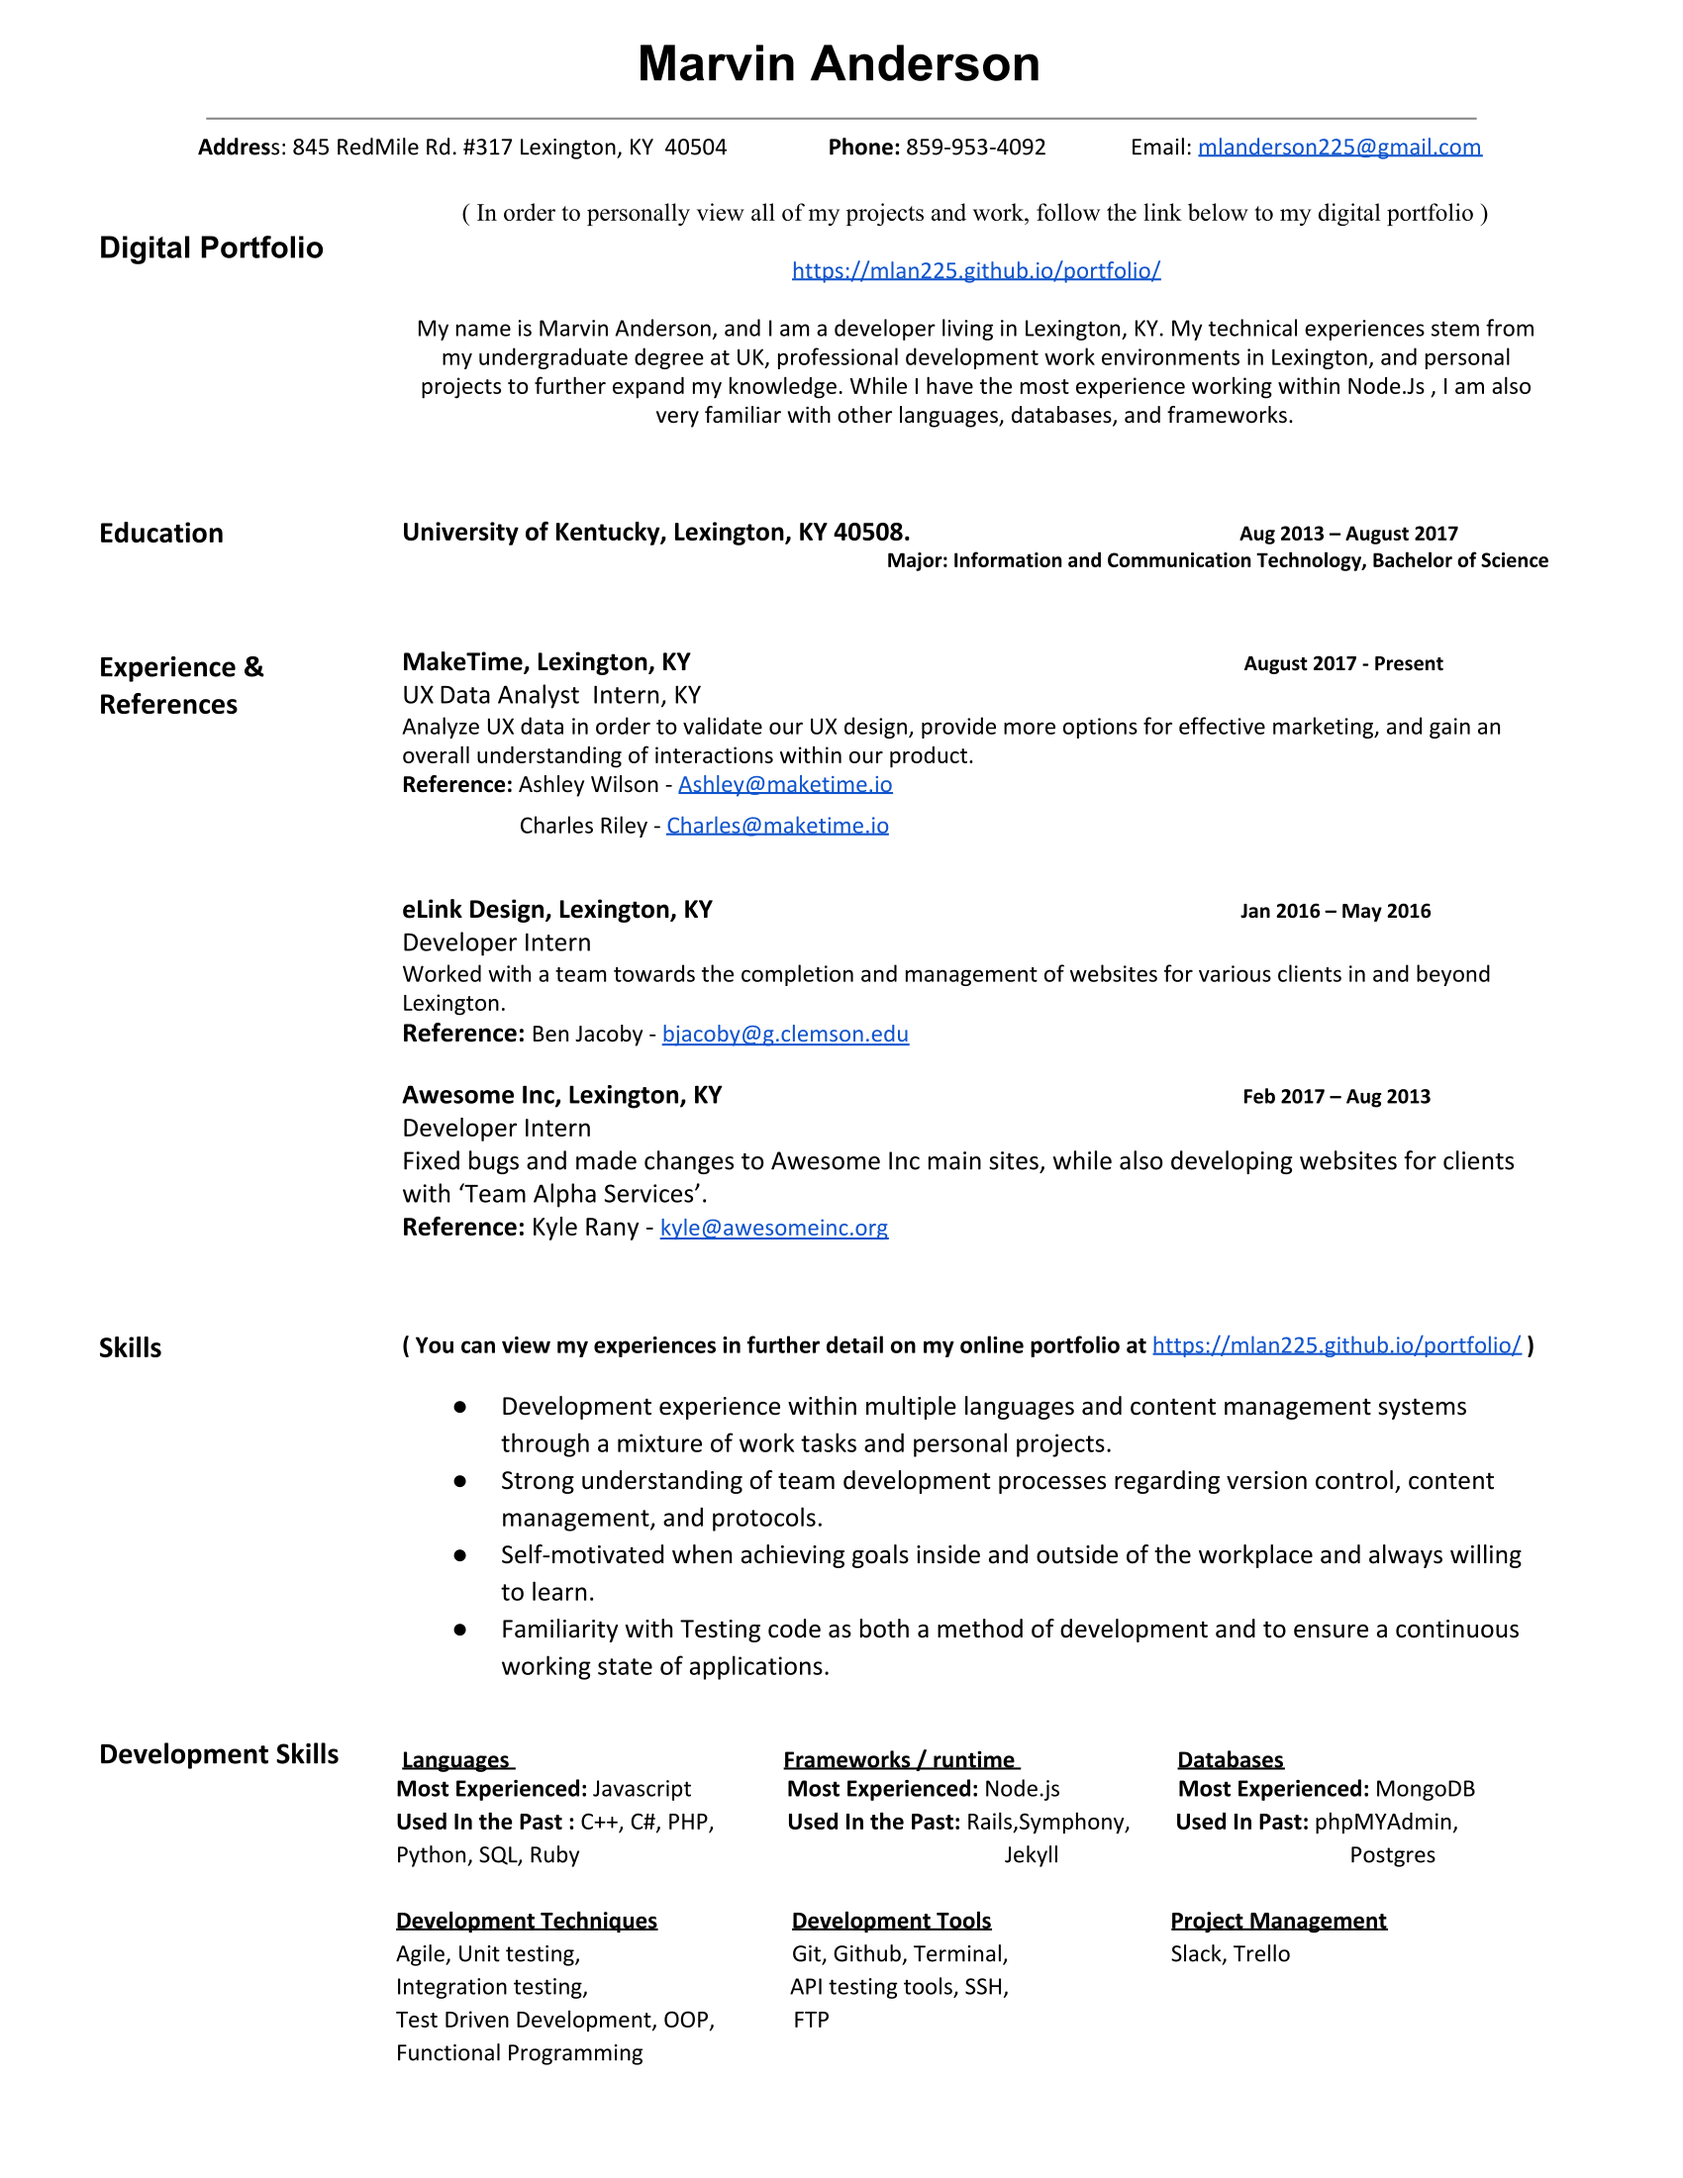
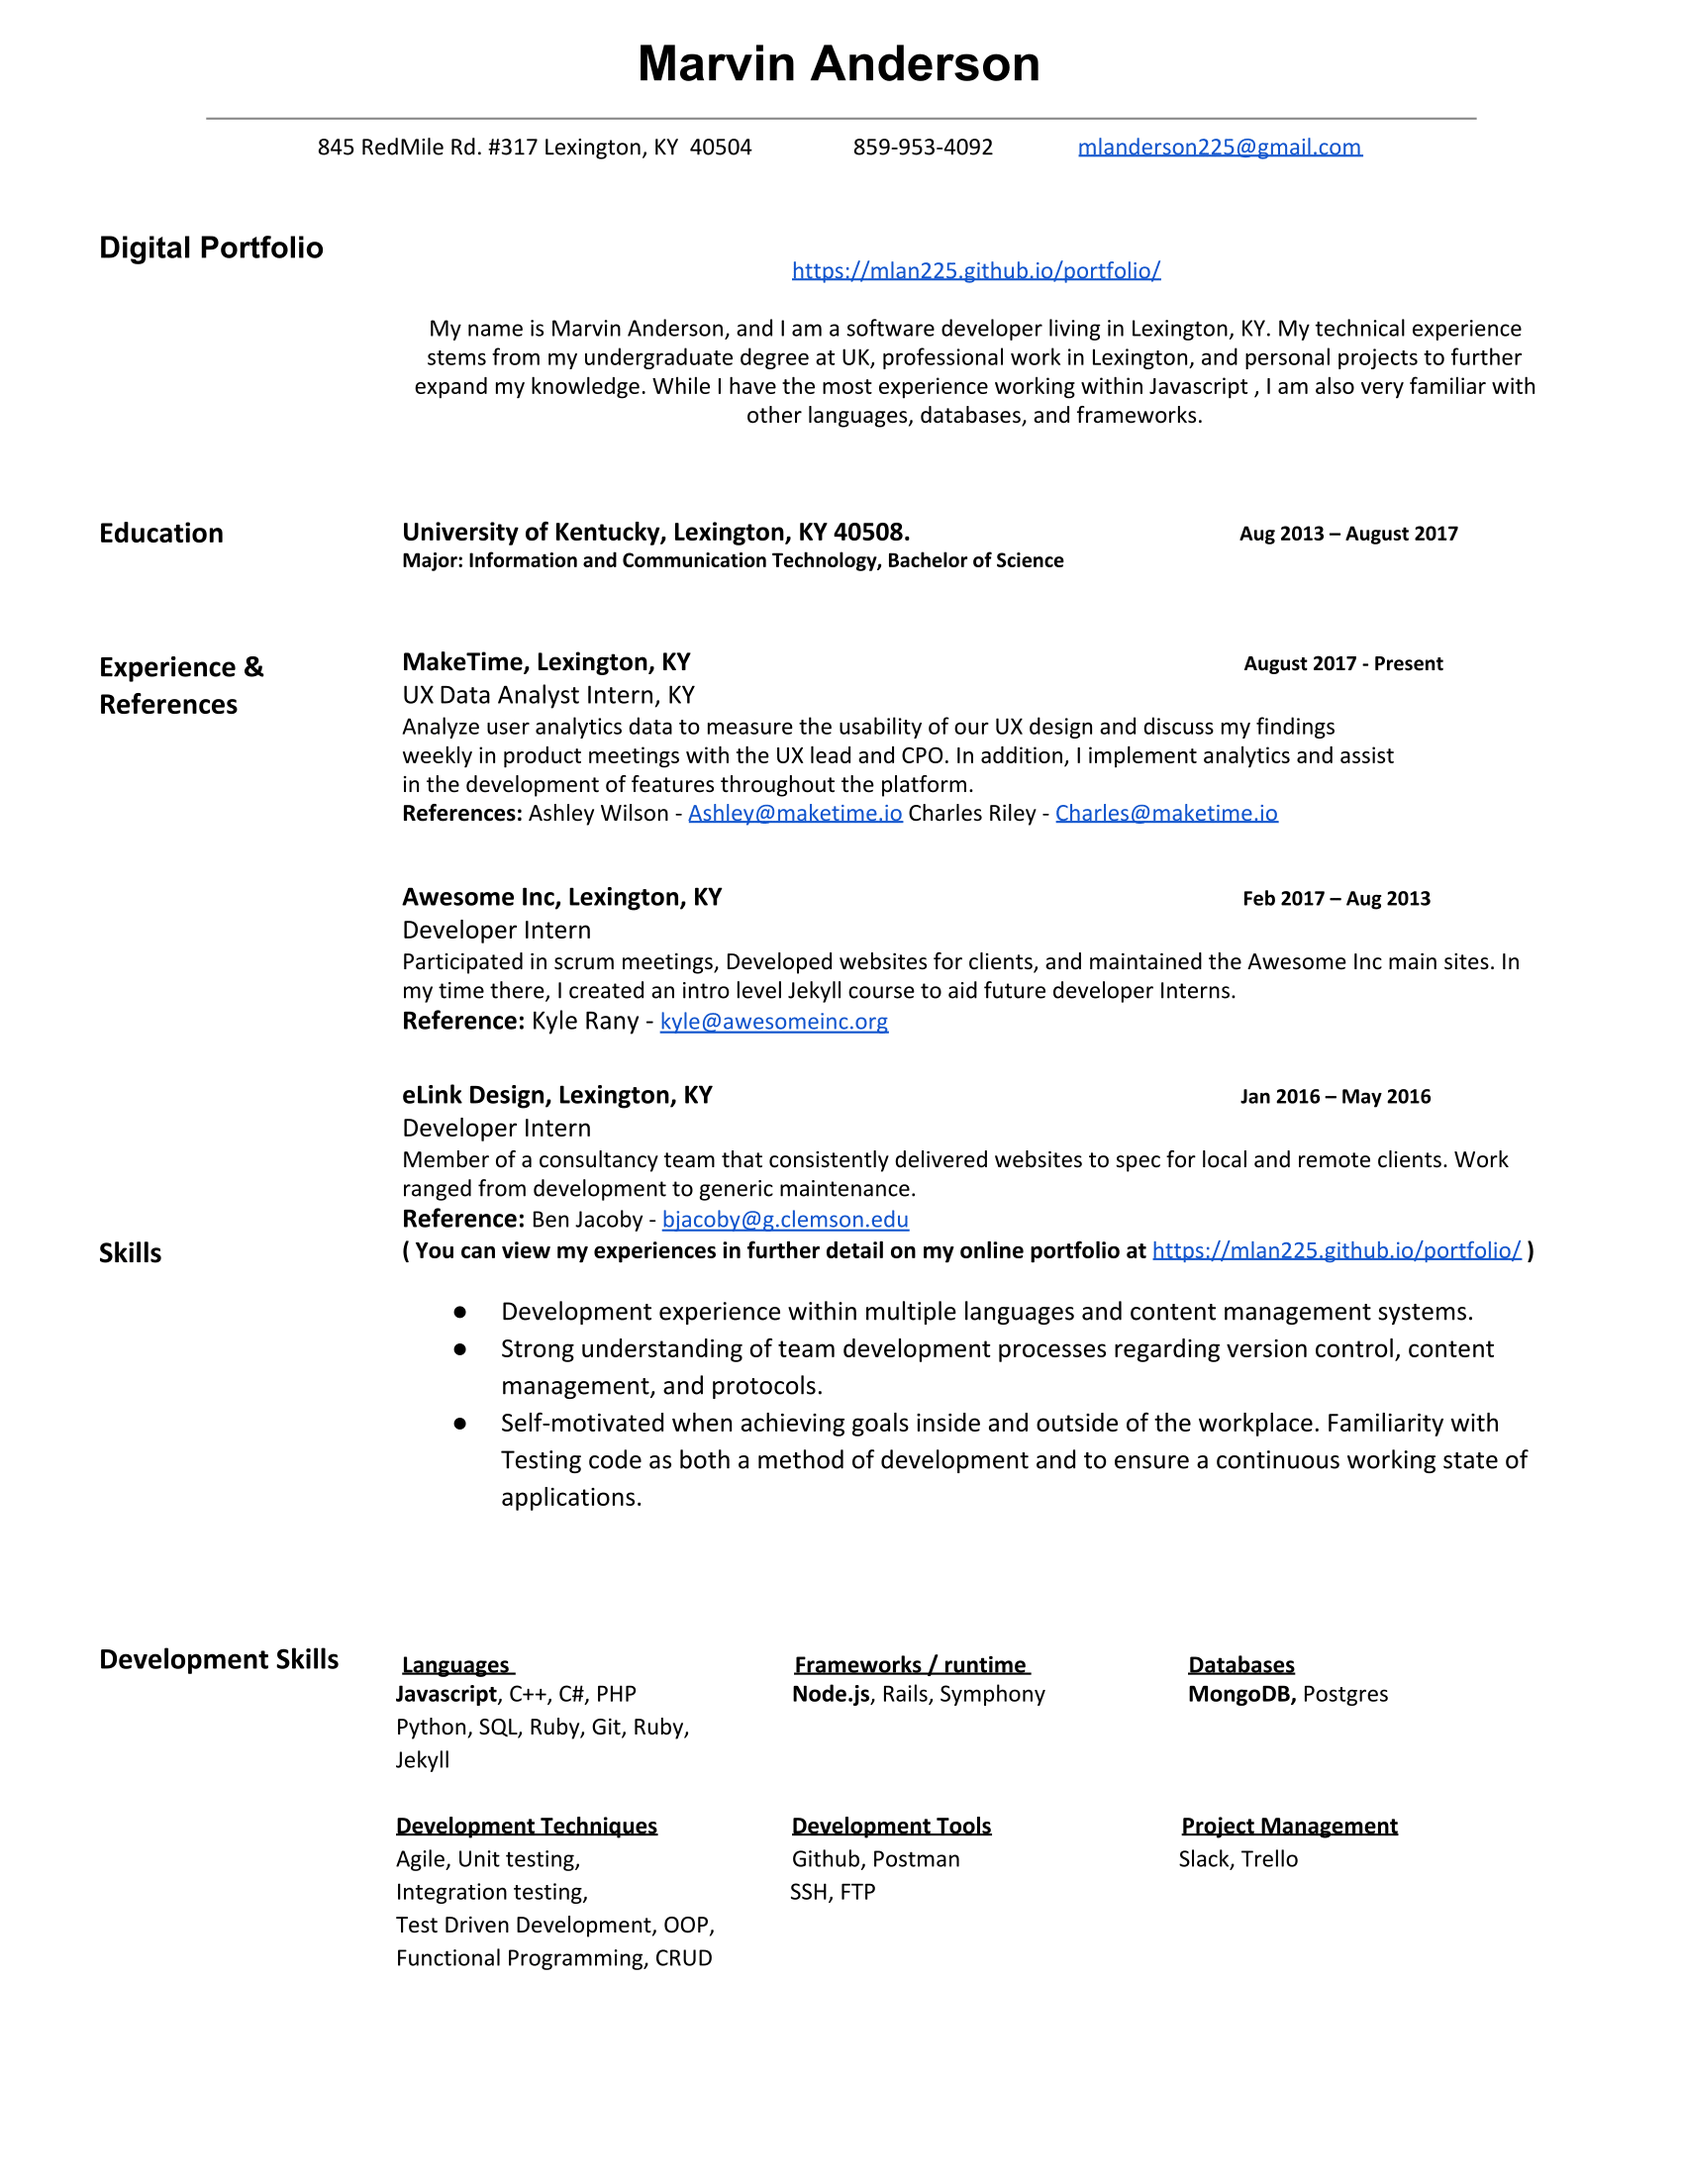
Added changes from resume review, updated resume img

diff --git a/skills.html b/skills.html
@@ -55,11 +55,11 @@ title: Skills
       <div class="modal-body">
 	    <div class="row">
 			<ul id="experience">
-				<li><h6>Development experience within multiple languages and content management systems through a mixture of work tasks and personal projects.</h6></li>
+				<li><h6>Development experience within multiple languages and content management systems.</h6></li>
+				</h6></li>
 				<li><h6>Strong understanding of team development processes regarding version control, content management, and protocols.
 				</h6></li>
-				<li><h6>Self-motivated when achieving goals inside and outside of the workplace and always willing to learn.</h6></li>
-				<li><h6>Familiarity with Testing code as both a method of development and to ensure a continuous working state of applications.
+				<li><h6>Self-motivated when achieving goals inside and outside of the workplace. Familiarity with Testing code as both a method of development and to ensure a continuous working state of applications.
 				</h6></li>
 			</ul>
 	    </div>
@@ -71,35 +71,28 @@ title: Skills
 				<div class="col-lg-6">
 				<h6><u>Languages</u></h6>
 					<div class="col-lg-6">
-						<h6>Most Experienced:</h6>
-						<h6>JavaScript</h6>
-					</div>
-					<div class="col-lg-6">
-						<h6>Previously Used:</h6>
+						<h6><strong>JavaScript</strong></h6>
 						<h6>C++</h6>
 						<h6>C#</h6>
 						<h6>Python</h6>
 						<h6>Ruby</h6>
 						<h6>SQL</h6>
 						<h6>PHP</h6>
+						<h6>Git</h6>
 					</div>
 				</div>
 				<div class="col-lg-6">
 					<h6><u>Runtime / Frameworks</u></h6>
 					<div class="row">
 						<div class="col-lg-6">
-								<h6>Most Experienced:</h6>
-								<h6>Node.Js</h6>
-							</div>
-							<div class="col-lg-6">
-								<h6>Previously Used:</h6>
-								<h6>Rails</h6>
-								<h6>Jekyll</h6>
-								<h6>Symphony</h6>
-								<h6>Angular</h6>
-							</div>
+							<h6><strong>Node.Js</strong></h6>
+							<h6>Rails</h6>
+							<h6>Jekyll</h6>
+							<h6>Symphony</h6>
+							<h6>Angular</h6>
 						</div>
 					</div>
+				</div>
 			</div>
 		</div>
 
@@ -108,11 +101,9 @@ title: Skills
 					<div class="col-lg-6">
 					<h6 id="section"><u>Development Tools</u></h6>
 						<div class="col-lg-12">
-							<h6>Git</h6>
 							<h6>GitHub</h6>
-							<h6>API testing tools</h6>
+							<h6>Postman</h6>
 							<h6>FTP</h6>
-							<h6>Terminal</h6>
 							<h6>SSH</h6>
 						</div>
 					</div>
@@ -121,7 +112,6 @@ title: Skills
 						<div class="row">
 							<div class="col-lg-12">
 									<h6>Agile</h6>
-									<h6>Scrum</h6>
 									<h6>Unit Testing</h6>
 									<h6>Integration Testing</h6>
 									<h6>Test Driven Development</h6>
@@ -137,8 +127,7 @@ title: Skills
 					<hr>
 					<h4>Databases</h4>
 					<hr>
-					<h6>MongoDB</h6>
-					<h6>phpMyAdmin</h6>
+					<h6><strong>MongoDB</strong></h6>
 					<h6>PostgreSQL</h6>
 				</div>
 		</div>

diff --git a/about.html b/about.html
@@ -22,11 +22,11 @@ title: About
 	<div class="row">
 		<div class="col-lg-6-offset-4">
 			<h4>Hello!</h4>
-			<p>My name is Marvin Anderson, and I am a developer living in Lexington, KY.
-				My programming experiences stem from my undergraduate degree at UK, professional
-				development work environments in Lexington, and personal projects to further
-				expand my knowledge. While I have the most experience working with Node.js and Mongo,
-				I am also very familiar with other popular languages, databases, and frameworks.</p>
+			<p>My name is Marvin Anderson, and I am a software developer living in Lexington, KY.
+				My technical experience stems from my undergraduate degree at UK, professional work
+				in Lexington, and personal projects to further expand my knowledge. While I have the
+				most experience working within Javascript , I am also very familiar with other
+				languages, databases, and frameworks.</p>
 		</div>
 	</div>
 </div>
